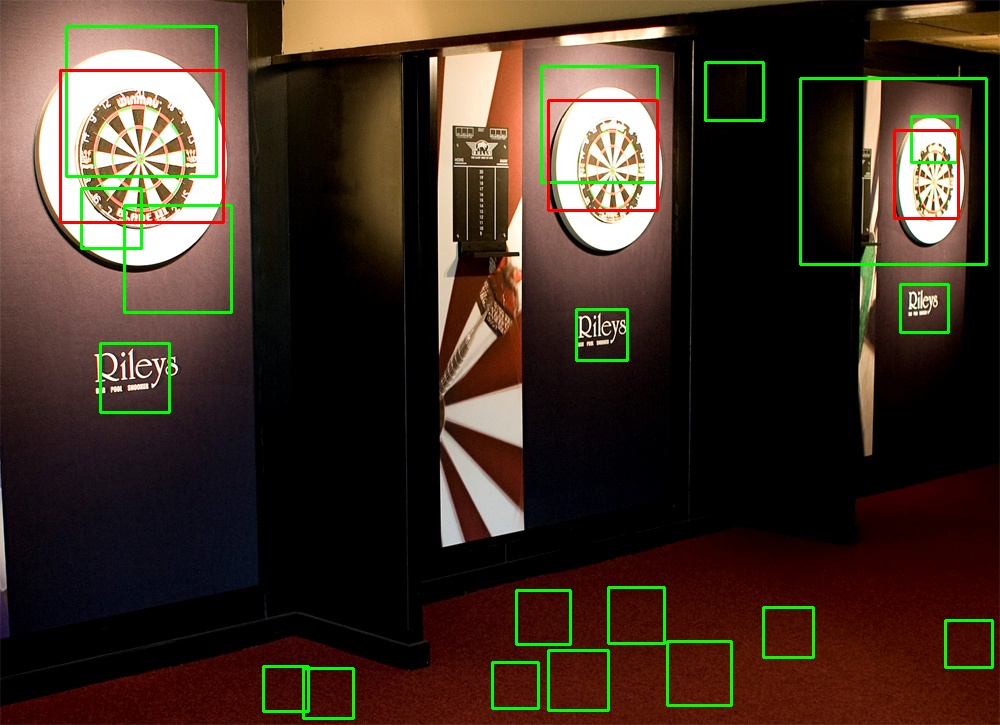
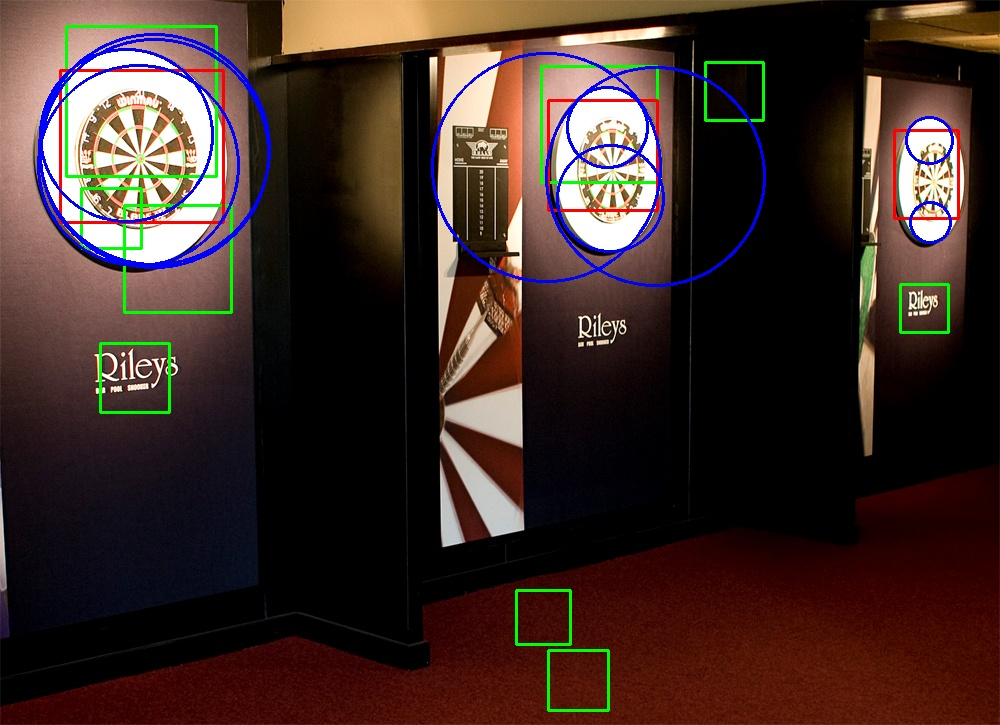
merge-circle and parameter change
merge-circle function and parameter change

diff --git a/task1.py b/task1.py
@@ -1,0 +1,191 @@
+import numpy as np
+import cv2
+import os
+import sys
+import argparse
+import math
+
+parser = argparse.ArgumentParser(description='dart detection')
+parser.add_argument('-name', '-n', type=str, default='Dartboard/dart0.jpg')
+args = parser.parse_args()
+
+# Global variables
+cascade_name = "Dartboardcascade/cascade.xml"
+
+
+def detectAndDisplay(frame):
+    detectedBoxes = []
+    # 1. Prepare Image by turning it into Grayscale and normalising lighting
+    frame_gray = cv2.cvtColor(frame, cv2.COLOR_BGR2GRAY)
+    frame_gray = cv2.equalizeHist(frame_gray)
+    # 2. Perform Viola-Jones Object Detection
+    darts = model.detectMultiScale(frame_gray, scaleFactor=1.01, minNeighbors=48, flags=0, minSize=(40, 40),
+                                   maxSize=(230, 230))
+    # 3. Print number of Faces found
+
+    print("number of detected darts :" + str(len(darts)))
+    # 4. Draw box around faces found
+    for i in range(0, len(darts)):
+        detectedBoxes.append(darts[i])
+        start_point = (darts[i][0], darts[i][1])
+        end_point = (darts[i][0] + darts[i][2], darts[i][1] + darts[i][3])
+        colour = (0, 255, 0)
+        thickness = 2
+        frame = cv2.rectangle(frame, start_point, end_point, colour, thickness)
+    return detectedBoxes
+
+
+def readGroundtruth(filename='GroundTruth.txt'):
+    bounding_boxes = []
+    # read bounding boxes as ground truth
+    with open(filename) as f:
+        # read each line in text file
+        for line in f.readlines():
+            content_list = line.split(",")
+            img_name = content_list[0]
+            x = float(content_list[1])
+            y = float(content_list[2])
+            width = float(content_list[3])
+            height = float(content_list[4])
+            bounding_boxes.append((img_name, x, y, width, height))
+    return bounding_boxes
+
+
+def draw_bounding_boxes(frame, bounding_boxes, imageNameEdit):
+    # Draw each bounding box on the frame
+    for img_name, x, y, width, height in bounding_boxes:
+        if img_name == imageNameEdit:
+            start_point = (int(x), int(y))
+            end_point = (int(x + width), int(y + height))
+            color = (0, 0, 255)  # Red in BGR
+            thickness = 2
+            frame = cv2.rectangle(frame, start_point, end_point, color, thickness)
+
+
+def calculate_iou(box1, box2):
+    x1, y1, w1, h1 = box1
+    x2, y2, w2, h2 = box2
+
+    # Calculate the coordinates of the intersection rectangle
+    x_left = max(x1, x2)
+    y_top = max(y1, y2)
+    x_right = min(x1 + w1, x2 + w2)
+    y_bottom = min(y1 + h1, y2 + h2)
+
+    # Check if there is an intersection
+    if x_right < x_left or y_bottom < y_top:
+        return 0.0
+
+    intersection_area = (x_right - x_left) * (y_bottom - y_top)
+
+    # Calculate the union area
+    union_area = w1 * h1 + w2 * h2 - intersection_area
+
+    # Calculate the IOU
+    iou = intersection_area / union_area
+
+    return iou
+
+
+def click_event(event, x, y, flags, param):
+    if event == cv2.EVENT_LBUTTONDOWN:
+        print(f'Coordinates: ({x}, {y})')
+
+
+# ==== MAIN ==============================================
+
+averageTPR = 0
+averageF1 = 0
+for i in range(0, 16):
+    imageName = f'Dartboard/dart{i}.jpg'
+    imageNameEdit = imageName.split('/')[-1].split('.')[0]
+
+    # imageName ='Dartboard/dart{i}.jpg'
+    # imageNameEdit = imageName.split('/')[-1].split('.')[0]
+    # ignore if no such file is present.
+    if (not os.path.isfile(imageName)) or (not os.path.isfile(cascade_name)):
+        print('No such file')
+        sys.exit(1)
+
+    # Read Input Image
+    frame = cv2.imread(imageName, 1)
+
+    # ignore if image is not array.
+    if not (type(frame) is np.ndarray):
+        print('Not image data')
+        sys.exit(1)
+
+    # 2. Load the Strong Classifier in a structure called `Cascade'
+    model = cv2.CascadeClassifier()
+    # if got error, you might need `if not model.load(cv2.samples.findFile(cascade_name)):' instead
+    if not model.load(cascade_name):
+        print('--(!)Error loading cascade model')
+        exit(0)
+
+    iou_threshold = 0.5  # Set threshold value
+    ground_truth_boxes = []  # Replace with your list of ground truth bounding boxes
+
+    # Extract the detected boxes for the current image
+    print('Image :' + imageNameEdit)
+    detected_boxes = detectAndDisplay(frame)
+    bounding_boxes = readGroundtruth('GroundTruth.txt')
+    draw_bounding_boxes(frame, bounding_boxes, imageNameEdit)
+
+    # Extract the ground truth boxes for the current image
+    if bounding_boxes is not None:
+        for img_name, x, y, width, height in bounding_boxes:
+            if img_name == imageNameEdit:
+                ground_truth_boxes.append((x, y, width, height))
+
+    best_matches = {}
+    for m, gt_box in enumerate(ground_truth_boxes):
+        best_iou = 0
+        best_box = None
+        for d_box in detected_boxes:
+            iou = calculate_iou(d_box, gt_box)
+            if iou >= iou_threshold and iou > best_iou:
+                best_iou = iou
+                best_box = d_box
+        if best_box is not None:
+            best_matches[m] = best_box
+
+    # best_matches contains each ground truth box matched with the best detected box
+    for gt_index, box in best_matches.items():
+        print(f"Ground truth box {ground_truth_boxes[gt_index]} best matched with detected box {box} with IOU: "
+              f"{calculate_iou(box, ground_truth_boxes[gt_index])}")
+
+    # TPR Calculation
+    true_positives = len(best_matches)  # Number of correctly detected faces
+    total_ground_truth = len(ground_truth_boxes)  # Total number of ground truth faces
+    TPR = true_positives / total_ground_truth
+    averageTPR += TPR
+    print(f"True positive rate: {TPR}")
+
+    false_positives = len(detected_boxes) - true_positives
+    precision = true_positives / (true_positives + false_positives + 0.1)
+    recall = TPR  # Recall is the same as TPR
+
+    # F1 score
+    F1_score = 2 * (precision * recall) / ((precision + recall) + 0.1)
+    averageF1 += F1_score
+    print(f"F1 score: {F1_score}")
+    print("\n")
+
+    resultName = f"Result_Image1/result{i}.jpg"
+    cv2.imwrite(resultName, frame)
+
+print(f"Average TPR: {averageTPR / 16}")
+print(f"Average F1 score: {averageF1 / 16}")
+print(averageTPR/16+averageF1/16)
+    # cv2.imwrite("grayimage.jpg", gray_image)
+
+    # cv2.imwrite("hough_space_sum.jpg", hough_space_sum)
+
+    # cv2.imwrite("gradient_magnitude.jpg", gradient_magnitude)
+    # cv2.imwrite("gradient_orientation.jpg", gradient_orientation)
+    # This saves the image
+    # cv2.namedWindow('image')  # Name the window
+    # # cv2.setMouseCallback('image', click_event)
+    # cv2.imshow('image', frame)
+    # cv2.waitKey(0)
+    # cv2.destroyAllWindows()

diff --git a/dart.py b/dart.py
@@ -19,7 +19,7 @@ def detectAndDisplay(frame):
     frame_gray = cv2.cvtColor(frame, cv2.COLOR_BGR2GRAY)
     frame_gray = cv2.equalizeHist(frame_gray)
     # 2. Perform Viola-Jones Object Detection
-    darts = model.detectMultiScale(frame_gray, scaleFactor=1.01, minNeighbors=25, flags=0, minSize=(40, 40),
+    darts = model.detectMultiScale(frame_gray, scaleFactor=1.01, minNeighbors=48, flags=0, minSize=(40, 40),
                                    maxSize=(230, 230))
     # 3. Print number of Faces found
 
@@ -155,6 +155,39 @@ def thresholdPixel(input, ts):
     return input
 
 
+def merge_close_circles(detected_circles, min_distance=20):
+    new_detected_circles = []
+    skip_indices = set()  # Used to record circles that have already been processed
+
+    for i in range(len(detected_circles)):
+        if i in skip_indices:
+            continue
+
+        current_circle = detected_circles[i]
+        overlapping_circles = []
+
+        for j in range(len(detected_circles)):
+            if i != j:
+                other_circle = detected_circles[j]
+                distance = np.sqrt((current_circle[0] - other_circle[0]) ** 2 +
+                                   (current_circle[1] - other_circle[1]) ** 2)
+
+                if distance < min_distance:
+                    overlapping_circles.append(j)
+
+        if not overlapping_circles:
+            new_detected_circles.append(current_circle)
+        else:
+            # Add the current circle to skip_indices as it overlaps with others
+            skip_indices.add(i)
+            # Add the first overlapping circle to new_detected_circles and to skip_indices
+            new_detected_circles.append(detected_circles[overlapping_circles[0]])
+            skip_indices.update(overlapping_circles)
+
+    return new_detected_circles
+
+
+
 def hough_circle_detection(gradient_magnitude, gradient_orientation, ts, th, min_radius, max_radius):
     # Step 1: Threshold the gradient magnitude image.
     thresholded_image = thresholdPixel(gradient_magnitude, ts)
@@ -191,25 +224,29 @@ def hough_circle_detection(gradient_magnitude, gradient_orientation, ts, th, min
     # Step 5: Find circle centers.
     centers = np.argwhere(thresholded_hough == 1)
     detected_circles = []
+
     for center in centers:
         detected_circles.append((center[0], center[1], center[2] + min_radius))
 
     # Step 6: Display the Hough Space.
     hough_space_sum = np.sum(hough_space, axis=2)
 
-    # Step 7: Overlay detected circles on the original image.
-    # for circle in detected_circles:
-    #     cv2.circle(frame, (circle[1], circle[0]), circle[2], (255, 0, 0), 2)
+    # Step 7: merge circles
 
-    return thresholded_image, hough_space_sum, detected_circles
+    new_detected_circles = merge_close_circles(detected_circles)
 
-
-
+    return thresholded_image, hough_space_sum, new_detected_circles
+    # return thresholded_image, hough_space_sum, detected_circles
 
 
 # ==== MAIN ==============================================
 
-for i in range(0, 16):
+
+averageTPR = 0
+averageF1 = 0
+
+for i in range(4, 16):
+
     imageName = f'Dartboard/dart{i}.jpg'
     imageNameEdit = imageName.split('/')[-1].split('.')[0]
 
@@ -271,6 +308,7 @@ for i in range(0, 16):
     true_positives = len(best_matches)  # Number of correctly detected faces
     total_ground_truth = len(ground_truth_boxes)  # Total number of ground truth faces
     TPR = true_positives / total_ground_truth
+    averageTPR += TPR
     print(f"True positive rate: {TPR}")
 
     false_positives = len(detected_boxes) - true_positives
@@ -279,17 +317,14 @@ for i in range(0, 16):
 
     # F1 score
     F1_score = 2 * (precision * recall) / ((precision + recall) + 0.1)
+    averageF1 += F1_score
     print(f"F1 score: {F1_score}")
     print("\n")
 
     resultName = f"Result_Image/result{i}.jpg"
     filenameForThreshold = f"Result_Image/thresholded_image{i}.jpg"
-
-    #cv2.imwrite(resultName, frame)
-
-
-
-
+    filenameForHough = f"Result_Image/hough_space_sum{i}.jpg"
+    # cv2.imwrite(resultName, frame)
 
     # Hough Circle Detection##############################################
     # Read Input Image from source
@@ -304,30 +339,43 @@ for i in range(0, 16):
     gray_image = cv2.GaussianBlur(gray_image, (5, 5), 0)
     gradient_magnitude = gradient_mag(gray_image)
     gradient_orientation = gradient_ori(gray_image)
-    ts = 150
-    th = 15
-    min_radius = 40
-    max_radius = 240
+    ts = 100
+    th = 20
+    min_radius = 20
+    max_radius = 115
 
-    # cv2.imwrite("grayimage.jpg", gray_image)
+    thresholded_image, hough_space_sum, detectedCircles = hough_circle_detection(gradient_magnitude,
+                                                                                 gradient_orientation, ts, th,
+                                                                                 min_radius, max_radius)
 
-    # cv2.imwrite("gradient_magnitude.jpg", gradient_magnitude)
-    # cv2.imwrite("gradient_orientation.jpg", gradient_orientation)
-    thresholded_image, hough_space_sum, detectedCircles = hough_circle_detection(gradient_magnitude, gradient_orientation, ts, th,
-                                                                     min_radius, max_radius)
-
-    for circle in detectedCircles:
-      cv2.circle(frame, (circle[1], circle[0]), circle[2], (255, 0, 0), 2)
+    for circles in detectedCircles:
+        cv2.circle(frame, (circles[1], circles[0]), circles[2], (255, 0, 0), 2)
     cv2.imwrite(filenameForThreshold, thresholded_image)
-    # hough_space_sum = hough_space_sum.astype(np.uint8)
-    # cv2.imwrite("hough_space_sum.jpg", hough_space_sum)
+
+    hough_space_sum = hough_space_sum.astype(np.uint8)
+    cv2.imwrite(filenameForHough, hough_space_sum)
 
     cv2.imwrite(resultName, frame)
 
+print(f"Average TPR: {averageTPR / 16}")
+print(f"Average F1 score: {averageF1 / 16}")
 
-    # This saves the image
-    # cv2.namedWindow('image')  # Name the window
-    # # cv2.setMouseCallback('image', click_event)
-    # cv2.imshow('image', frame)
-    # cv2.waitKey(0)
-    # cv2.destroyAllWindows()
+
+
+
+
+
+
+# cv2.imwrite("grayimage.jpg", gray_image)
+
+
+# cv2.imwrite("hough_space_sum.jpg", hough_space_sum)
+
+# cv2.imwrite("gradient_magnitude.jpg", gradient_magnitude)
+# cv2.imwrite("gradient_orientation.jpg", gradient_orientation)
+# This saves the image
+# cv2.namedWindow('image')  # Name the window
+# # cv2.setMouseCallback('image', click_event)
+# cv2.imshow('image', frame)
+# cv2.waitKey(0)
+# cv2.destroyAllWindows()
